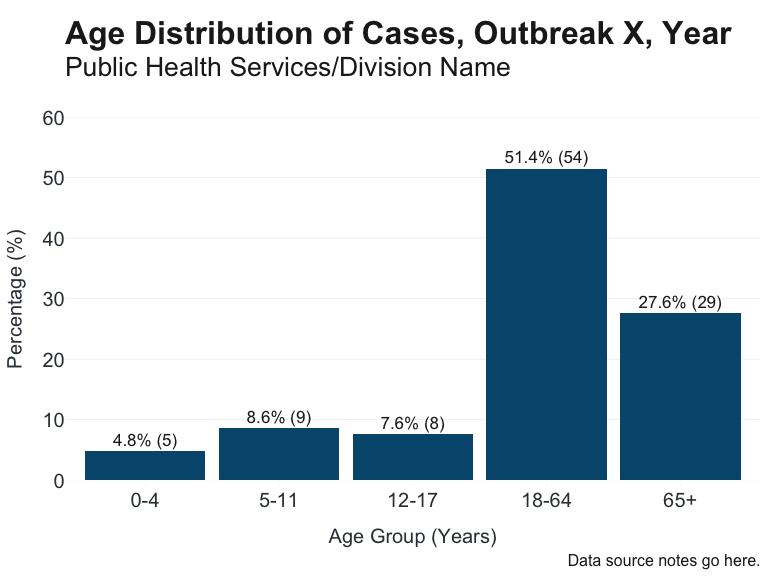
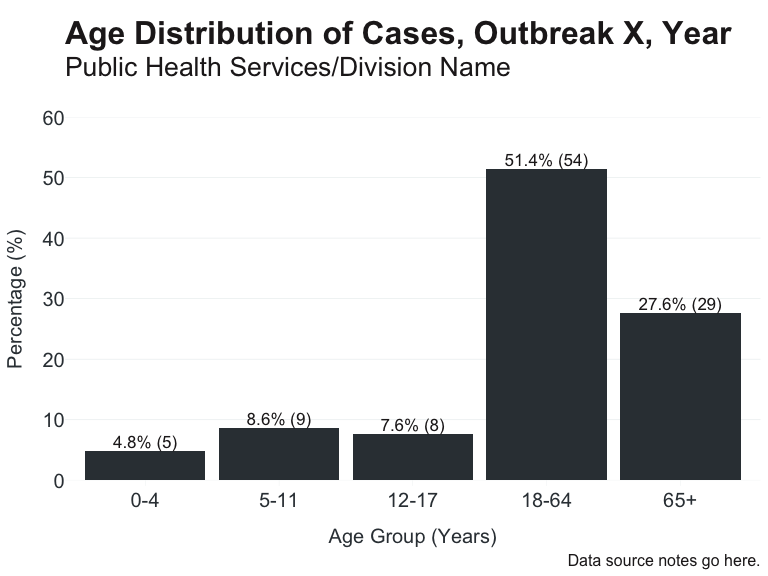
Simplify labels, render vignettes

Changed region(s): [[0.0938, 0.25, 0.9688, 0.8438]]

diff --git a/vignettes/extending_ggplot2.md b/vignettes/extending_ggplot2.md
@@ -1,27 +1,23 @@
----
-editor_options: 
-  markdown: 
-    wrap: 72
----
+Extending ggplot2
+================
 
-# Extending ggplot2
-
--   [theme_apollo & apollo_label](#theme_apollo--apollo_label)
--   [Get line plot label data](#get-line-plot-label-data)
--   [Wrap long axis labels](#wrap-long-axis-labels)
--   [Dumbbell-style Plot](#dumbbell-style-plot)
--   [Highlight Group of Interest](#highlight-group-of-interest)
+- [theme_apollo & apollo_label](#theme_apollo--apollo_label)
+- [Get line plot label data](#get-line-plot-label-data)
+- [Wrap long axis labels](#wrap-long-axis-labels)
+- [Dumbbell-style Plot](#dumbbell-style-plot)
+- [Lollipop Plot](#lollipop-plot)
+- [Highlight Group of Interest](#highlight-group-of-interest)
 
 Core functions:
 
--   `theme_apollo` - minimal, clean theme for plots
--   `apollo_label` - labels that match branding aesthetic
--   `end_points` - subset data at last time series data point for
-    labeling line plots
--   `wrap_labels` - wrap long axis labels to better fit plot
--   `geom_cleveland` - dumbbell-style plot
--   `highlight_geom` - highlight geom\_\* of interest based on
-    expression
+- `theme_apollo` - minimal, clean theme for plots
+- `apollo_label` - labels that match branding aesthetic
+- `end_points` - subset data at last time series data point for labeling
+  line plots
+- `wrap_labels` - wrap long axis labels to better fit plot
+- `geom_cleveland` - dumbbell-style plot
+- `geom_lollipop` - lollipop-style plot
+- `highlight_geom` - highlight geom\_\* of interest based on expression
 
 ## theme_apollo & apollo_label
 
@@ -43,8 +39,8 @@ linelist %>%
 ![](figures/vignette-boring-plot-1.png)<!-- -->
 
 Now we apply `theme_apollo` and `apollo_label`. Note: when using
-`coord_flip` for horizontal bar charts, set `direction` to "horizontal"
-for both `theme_apollo` and `apollo_label`.
+`coord_flip` for horizontal bar charts, set `direction` to “horizontal”
+within `theme_apollo`.
 
 ``` r
 linelist %>%
@@ -54,37 +50,37 @@ linelist %>%
     label = n_percent(n, percent, reverse = TRUE)
   ) %>%
   ggplot(aes(x = age_group, y = percent, label = label)) +
-  geom_col(fill = "#283747") +
+  geom_col(fill = "#353D42") +
   scale_y_continuous(expand = c(0,0), limits = c(0,55)) +
   theme_apollo(direction = "vertical") +
   labs(
     title = "Title Goes Here",
-    subtitle = "Subtitle Goes Here",
+    subtitle = "Subtitle Goes Here\n",
     x = "Age Groups (Years)",
     y = "Percentage (%)"
   ) +
-  apollo_label(direction = "vertical")
+  apollo_label(vjust = -0.3)
 ```
 
 ![](figures/vignette-nice-plot-1.png)<!-- -->
 
-## Get line plot label data {#get-line-plot-label-data}
+## Get line plot label data
 
 In some cases, you may want to add labels at the end of a line plot to
 increase readability. The simplest way to get the data from the last
 point in a time series is to put filtered data into `geom_text`:
 
 ``` r
-ggplot(data = ts, aes(x = date, y = scores, group = site)) +
+ggplot(data = ts, aes(x = date, y = scores, group = site, linetype = site)) +
   geom_line(aes(colour=site), linewidth = 1) +
   scale_x_date(breaks = ts$date, date_labels = "%b\n%Y") +
   scale_y_continuous(expand = c(0,0), limits = c(0,100)) +
   theme_apollo(direction = "vertical") +
   scale_colour_manual(values = c(A="blue",B="red")) +
-  apollo_label(data = end_points(ts, date), aes(label = site), hjust = 0, direction = "vertical") +
+  apollo_label(data = end_points(ts, date), aes(label = site), hjust = 0) +
     labs(
     title = "Title Goes Here",
-    subtitle = "Subtitle Goes Here",
+    subtitle = "Subtitle Goes Here\n",
     x = "Date",
     y = "Percentage (%)"
   )
@@ -92,7 +88,7 @@ ggplot(data = ts, aes(x = date, y = scores, group = site)) +
 
 ![](figures/vignette-end-points-1.png)<!-- -->
 
-## Wrap long axis labels {#wrap-long-axis-labels}
+## Wrap long axis labels
 
 For categories with long titles (e.g. race/ethnicity), you may need the
 option to wrap text to better fit under/next to the axis. To specify
@@ -102,16 +98,17 @@ wrapping, higher width = less wrapping).
 Without wrapping:
 
 ``` r
-ggplot(data = re, aes(x = group, y = score)) +
+ggplot(data = re, aes(x = group, y = score, label = score)) +
   geom_col() +
   theme_apollo(direction = "vertical") +
-  scale_y_continuous(expand = c(0,0)) +
+  scale_y_continuous(expand = c(0,0), limits = c(0,100)) +
   labs(
     title = "Title Goes Here",
-    subtitle = "Subtitle Goes Here",
+    subtitle = "Subtitle Goes Here\n",
     x = "Race/Ethnicity",
     y = "Percentage (%)"
-  )
+  ) +
+  apollo_label(vjust = -0.3)
 ```
 
 ![](figures/vignette-no-wrap-1.png)<!-- -->
@@ -119,22 +116,23 @@ ggplot(data = re, aes(x = group, y = score)) +
 With wrapping:
 
 ``` r
-ggplot(data = re, aes(x = group, y = score)) +
+ggplot(data = re, aes(x = group, y = score, label = score)) +
   geom_col() +
   scale_x_discrete(labels = wrap_labels(width = 15)) +
   theme_apollo(direction = "vertical") +
-  scale_y_continuous(expand = c(0,0)) +
+  scale_y_continuous(expand = c(0,0), limits = c(0,100)) +
     labs(
     title = "Title Goes Here",
-    subtitle = "Subtitle Goes Here",
+    subtitle = "Subtitle Goes Here\n",
     x = "Race/Ethnicity",
     y = "Percentage (%)"
-  )
+  ) +
+  apollo_label(vjust = -0.3)
 ```
 
 ![](figures/vignette-wrap-label-1.png)<!-- -->
 
-## Dumbbell-style Plot {#dumbbell-style-plot}
+## Dumbbell-style Plot
 
 Cleveland dot plot, also called dumbbell plots, consist of two points
 connected by a solid line. Useful in showing changes in pre/post test
@@ -152,15 +150,32 @@ ggplot(data = cleveland, aes(x = PRE, xend = POST, y = Country)) +
 
 ![](figures/vignette-cleveland-1.png)<!-- -->
 
-## Highlight Group of Interest {#highlight-group-of-interest}
+## Lollipop Plot
+
+Lollipop Plot is similar to Cleveland Dot Plot, but has only one point
+with a stem.
+
+``` r
+ggplot(data = cleveland, aes(x = Country, y = POST, color = Country)) +
+  geom_lollipop(colour = "red", size = 5, linewidth = 1) +
+  labs(title = "Lollipop Plot", x = "Country", y = "Post Score") +
+  theme_apollo(direction = "vertical")
+```
+
+![](figures/vignette-lollipop-1.png)<!-- -->
+
+## Highlight Group of Interest
 
 In plots with multiple categories, you may want to draw attention to a
-specific group - whether it's the highest/lowest value, a group of
+specific group - whether it’s the highest/lowest value, a group of
 interest, etc. `highlight_geom` takes two arguments - an expression
-(similar to what you'd use in `dplyr::filter`), and a color for
-highlighting. The highlighting does work with facets, but this function
-should be considered experimental and to be used with caution. Currently
-works well with `geom_col`/`geom_bar`, `geom_line`, and `geom_point`.
+(similar to what you’d use in `dplyr::filter`), and a color for
+highlighting. There are additional arguments for points (`alpha`,
+`size`) and lines (`linewidth`).
+
+The highlighting does work with facets, but this function should be
+considered experimental and to be used with caution. Currently works
+well with `geom_col`/`geom_bar`, `geom_line`, and `geom_point`.
 
 ``` r
 ggplot(data = highlight, aes(x = locations, y = scores)) +
@@ -173,7 +188,7 @@ ggplot(data = highlight, aes(x = locations, y = scores)) +
     title = "Showcasing how highlight_geom() works\n",
     caption = "Agency/Unit Name Goes Here."
   ) +
-  apollo_label(data = highlight, aes(label = scores), direction = "vertical")
+  apollo_label(data = highlight, aes(label = scores), vjust = -0.3)
 ```
 
 ![](figures/vignette-highlight-1.png)<!-- -->

diff --git a/README.md b/README.md
@@ -83,7 +83,7 @@ linelist %>%
     label = n_percent(n, percent, reverse = TRUE)
   ) %>%
   ggplot(aes(x = age_group, y = percent, label = label)) +
-  geom_col(fill = "#00577D") +
+  geom_col(fill = "#353D42") +
   scale_y_continuous(expand = c(0,0), limits = c(0,60)) +
   theme_apollo(direction = "vertical") +
   labs(
@@ -93,7 +93,7 @@ linelist %>%
     y = "Percentage (%)",
     caption = "Data source notes go here."
   ) +
-  apollo_label(direction = "vertical")
+  apollo_label(vjust = -0.3)
 ```
 
 <img src="man/figures/README-plot-1.png" style="display: block; margin: auto;" />
